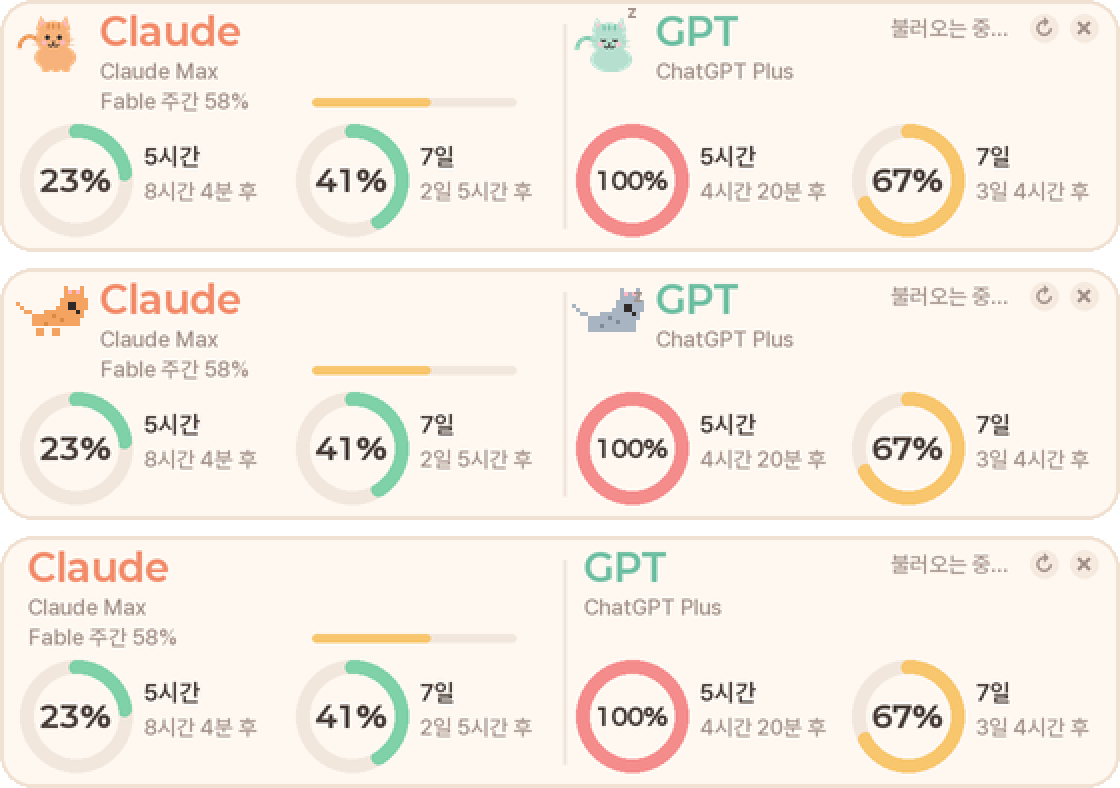
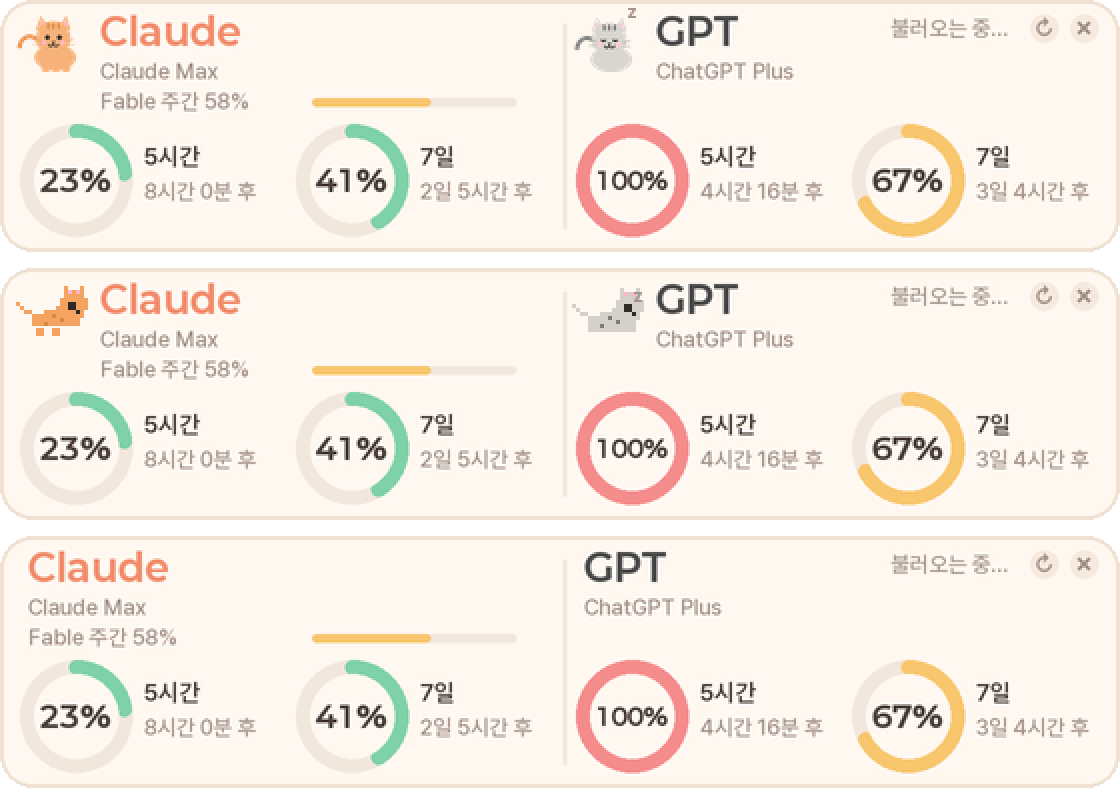
v1.1.1: GPT 색을 OpenAI 브랜드에 맞춰 흑백 계열로 (차콜 강조색, 연회색 고양이)

diff --git a/usage_widget.py b/usage_widget.py
@@ -49,7 +49,7 @@ except Exception:  # noqa: BLE001
 import logging
 from logging.handlers import RotatingFileHandler
 
-VERSION = "1.1.0"
+VERSION = "1.1.1"
 LOG_PATH = Path(__file__).with_name("widget.log")
 logging.basicConfig(handlers=[RotatingFileHandler(LOG_PATH, maxBytes=200_000, backupCount=1, encoding="utf-8")],
                     level=logging.INFO, format="%(asctime)s %(levelname)s %(message)s")
@@ -96,7 +96,7 @@ C_OK, C_WARN, C_BAD, C_STALE = "#7fd1a8", "#f8c66d", "#f58c8c", "#d9cfc7"
 PROVIDERS_ALL = [
     # key, 표시명, 강조색, 고양이 몸색, 고양이 무늬색
     ("claude", "Claude", "#f28c6b", "#f4a460", "#d98a3f"),
-    ("codex", "GPT", "#6fbfa3", "#a9b4c2", "#7f8b9b"),
+    ("codex", "GPT", "#4a4a4a", "#d3cfc9", "#7d7d7d"),   # OpenAI 브랜드(흑백)에 맞춰 차콜 + 연회색 고양이
 ]
 PROVIDERS = list(PROVIDERS_ALL)   # 현재 표시 중인 제공자 (apply_layout이 갱신)
 WINDOWS = [("primary", "5시간"), ("secondary", "7일")]
@@ -169,7 +169,7 @@ CHAR_DEFAULT = "smooth"
 # 부드러운 고양이 색 (몸, 무늬, 볼터치) - GPT는 브랜드 민트 계열로
 SMOOTH_COLORS = {
     "claude": ("#f6b27a", "#e08c4a", "#ffb7c5"),
-    "codex": ("#b6dfcf", "#7cc4aa", "#ffc9d4"),
+    "codex": ("#d9d5cf", "#7d7d7d", "#ffc9d4"),
 }
 
 

diff --git a/README.md b/README.md
@@ -25,7 +25,7 @@ RunCat처럼 픽셀 고양이가 달리는데, 한도를 많이 쓸수록 빨리
 - **페이스 예측**: 이 속도면 리셋 전에 부족한지 여유인지 (옵션)
 - **전체화면 앱 감지 시 자동 숨김** (같은 모니터에서만), 종료되면 복귀
 - **클릭 통과 모드**: 다른 창이 활성일 땐 마우스가 위젯을 통과, 바탕화면이 활성이거나 Ctrl을 누른 동안만 조작
-- **캐릭터 스타일 선택**: 부드러운 고양이(기본, 둥근 도형으로 그린 벡터) / 도트 고양이(RunCat풍 픽셀) / 없음(숫자만). 우클릭 → 캐릭터 스타일
+- **캐릭터 스타일 선택**: 부드러운 고양이(기본, 둥근 도형으로 그린 벡터) / 도트 고양이(RunCat풍 픽셀) / 없음(숫자만). 우클릭 → 캐릭터 스타일. 색은 브랜드에 맞춰 Claude는 코럴, GPT는 흑백 계열
 - **작업표시줄 미니 모드**: 더블클릭하면 시계 왼쪽에 알약 모양(고양이 2마리 + 5h·7d %)으로 붙음. 좌우로 드래그해 자리를 정하면 기억. 다시 더블클릭하면 카드로 복귀
 - **자동 업데이트**: 하루 한 번 GitHub 최신 릴리즈를 확인하고, 새 버전이면 팝업 → 클릭 한 번으로 내려받아 교체·재시작 (우클릭 메뉴에서 끄거나 즉시 확인 가능)
 - 투명도 조절, 항상 위 토글, Windows 시작 시 자동 실행
